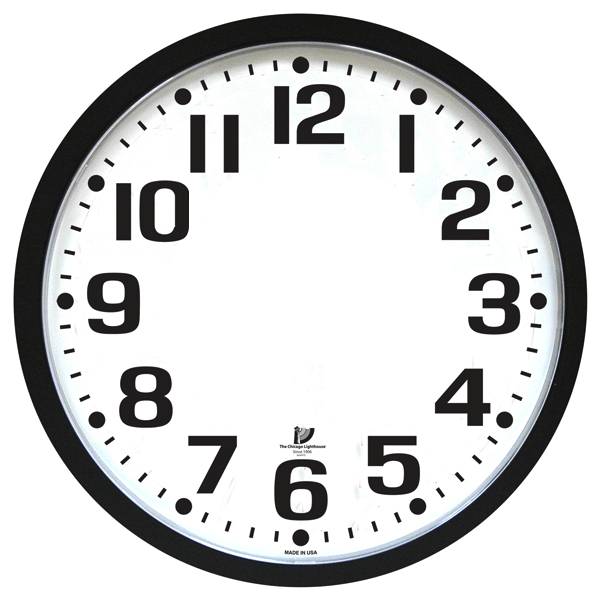
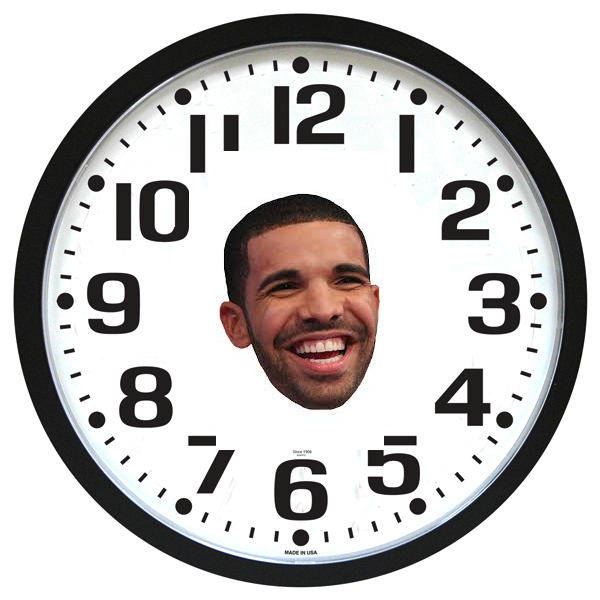
feat drake

diff --git a/clock.js b/clock.js
@@ -1,13 +1,22 @@
-// getting the hand elements and rotating the hands using transform
+//getting the date
+var date = new Date();
+var hour = date.getHours();
+var minute = date.getMinutes();
+var second = date.getSeconds();
 
+//setting the degrees
+var secDegrees = ((second / 60) * 360);
+var minDegrees = ((minute / 60) * 360) + ((second/60)*6);
+var hourDegrees = ((hour / 12) * 360) + ((minute/60)*30);
+
+// getting the hand elements and rotating the hands using transform
 function minTick() {
-  let date = new Date(); //getting the date
-  var minute = date.getMinutes(); //getting the minutes
-  var minDegrees = ((minute / 60) * 360) + ((second/60)*6); // converting minutes to degrees
-  var mins = document.querySelector("#minute"); //selecting the minute hand
-  mins.style.transform = "rotate(" + minDegrees + "deg)"; // rotating hand to correct position
+  let date = new Date();
+  var minute = date.getMinutes();
+  var minDegrees = ((minute / 60) * 360) + ((second/60)*6);
+  var minuteHand = document.querySelector("#minute");
+  minuteHand.style.transform = "rotate(" + minDegrees + "deg)";
 }
-//same for hours
 function hourTick() {
   let date = new Date();
   hour = date.getHours();
@@ -15,16 +24,15 @@ function hourTick() {
     hour = hour - 12;
   }
   hourDegrees = ((hour / 12) * 360) + ((minute/60)*30);
-  var hours = document.querySelector("#hour");
-  hours.style.transform = "rotate(" + hourDegrees + "deg)";
+  var hourHand = document.querySelector("#hour");
+  hourHand.style.transform = "rotate(" + hourDegrees + "deg)";
 }
-// same for seconds
 function secTick() {
   let date = new Date();
   second = date.getSeconds();
   secDegrees = ((second / 60) * 360);
-  var secs = document.querySelector("#second");
-  secs.style.transform = "rotate(" + secDegrees + "deg)";
+  var secondHand = document.querySelector("#second");
+  secondHand.style.transform = "rotate(" + secDegrees + "deg)";
 }
 //keeping the clock moving
 

diff --git a/index.html b/index.html
@@ -1,26 +1,32 @@
 <!DOCTYPE html>
 <html>
-  <head>
-    <meta charset="utf-8">
-    <title>Clock</title>
-    <link rel="stylesheet" href="style.css" />
-    
-  </head>
-  <body>
-    <div id="clock">
-      <div id="clockface">
-        <img id="face" src="img/clockface.png" alt="second-hand" />
-      </div>
-      <div id="minute-hand">
-        <img id="minute" src="img/minute-hand.png" alt="minute-hand"/>
-      </div>
-      <div id="hour-hand">
-        <img id="hour" src="img/hour-hand.png" alt="hour-hand"/>
-      </div>
-      <div id="second-hand">
-        <img id="second" src="img/second-hand.png" alt="second-hand"/>
-      </div>
+
+<head>
+  <meta charset="utf-8">
+  <title>Clock</title>
+  <link rel="stylesheet" href="style.css" />
+
+</head>
+
+<body>
+  <div id="clock">
+    <div id="clockface">
+      <img id="face" src="img/clockface.png" alt="second-hand" />
+    </div>
+    <div id="minute-hand">
+      <img id="minute" src="img/minute-hand.png" alt="minute-hand" />
+    </div>
+    <div id="hour-hand">
+      <img id="hour" src="img/hour-hand.png" alt="hour-hand" />
+    </div>
+    <div id="second-hand">
+      <img id="second" src="img/second-hand.png" alt="second-hand" />
+    </div>
   </div>
-  </body>
-  <script src="clock.js"></script>
+  <div id ="scaryhours">
+    <img src="img/scary.png" alt="scary hours logo">
+  </div>
+</body>
+
+<script src="clock.js"></script>
 </html>

diff --git a/style.css b/style.css
@@ -1,3 +1,8 @@
+body {
+  background-image: url('img/background.png');
+  background-repeat: repeat;
+}
+
 #clockface {
   position:fixed;
   top: 10%;
@@ -22,4 +27,10 @@
   position:fixed;
   top: 10%;
   left: 10%;
+}
+#scaryhours {
+  position: fixed;
+  display: inline-block;
+  top: 20%;
+  left: 5%;
 }
